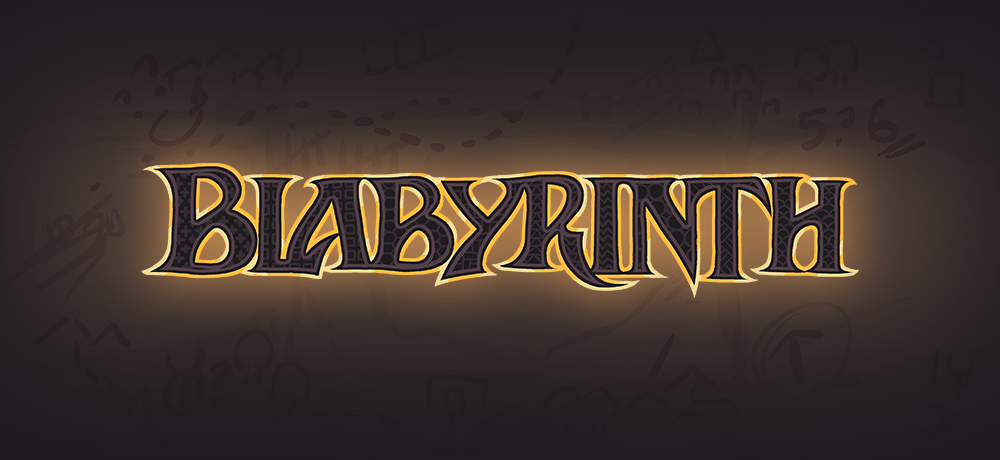
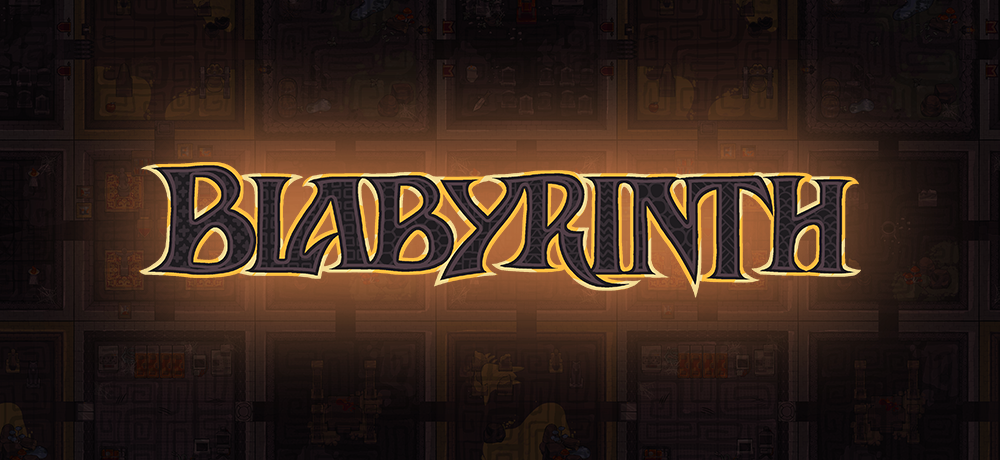
blab page update

diff --git a/portfolio/blabyrinth.html b/portfolio/blabyrinth.html
@@ -5,7 +5,7 @@ layout: default
 
 <div class="portfolio-column">
 
-	<img  id="top" alt="blabyrinth banner" src="/images/portfolio/blabyrinth-banner.png">
+	<img  id="top" alt="blabyrinth banner" src="/images/portfolio/blabyrinth-banner.jpg">
 
 	<div class="center-col">
 
@@ -25,21 +25,25 @@ layout: default
 		</div>
 
 		<h5 style="text-transform: none;">
-			A cooperative escape room that changes every time you play. Explore a mysterious labyrinth with your friends. Find cryptic clues and secret passages. Solve puzzles and escape with the treasure!
+			 Blabyrinth is a local multiplayer mobile game where players attempt to escape a randomly generated maze. The game features cryptic puzzles and secret passages.
 		</h5>
 
 		<p>
 			<!-- What did I do overall
-			- 
+			- the art
 			- 
 			 -->
-			 wat
+			 I developed the games visual style, assisted with game design, and animation for the trailer, as well as illustrated over 1000 game items, scenery and players.
 		</p>
 
 	</div>
 	
-	<img alt="opening image" src="/images/portfolio/portfolio-26.jpg">
+	<img alt="blabyrinth rooms" src="/images/portfolio/blabyrinth-rooms.jpg">
 	
+	<img alt="blabyrinth scenery" src="/images/portfolio/blabyrinth-scenery.jpg">
+	
+
+
 	<div class="center-col">
 
 

diff --git a/portfolio/darktower.html b/portfolio/darktower.html
@@ -28,7 +28,7 @@ layout: default
 		</h5>
 
 		<p>
-			Return to dark tower is a re-imagining of 80's cult board game, Dark Tower, one of the first to contain digital components. My role in the team was to design the board games companion app, which functions as the antagonist of the game, spawning foes and challenges onto the board for the players to overcome. 
+			Return to dark tower is a spiritual sucessor to the 80's cult board game Dark Tower, one of the first board games to contain digital components. My role in the team was to design the companion app, which functions as the antagonist of the game, spawning foes and challenges onto the board for the players to overcome. 
 		</p>
 		</div>
 	</div>
